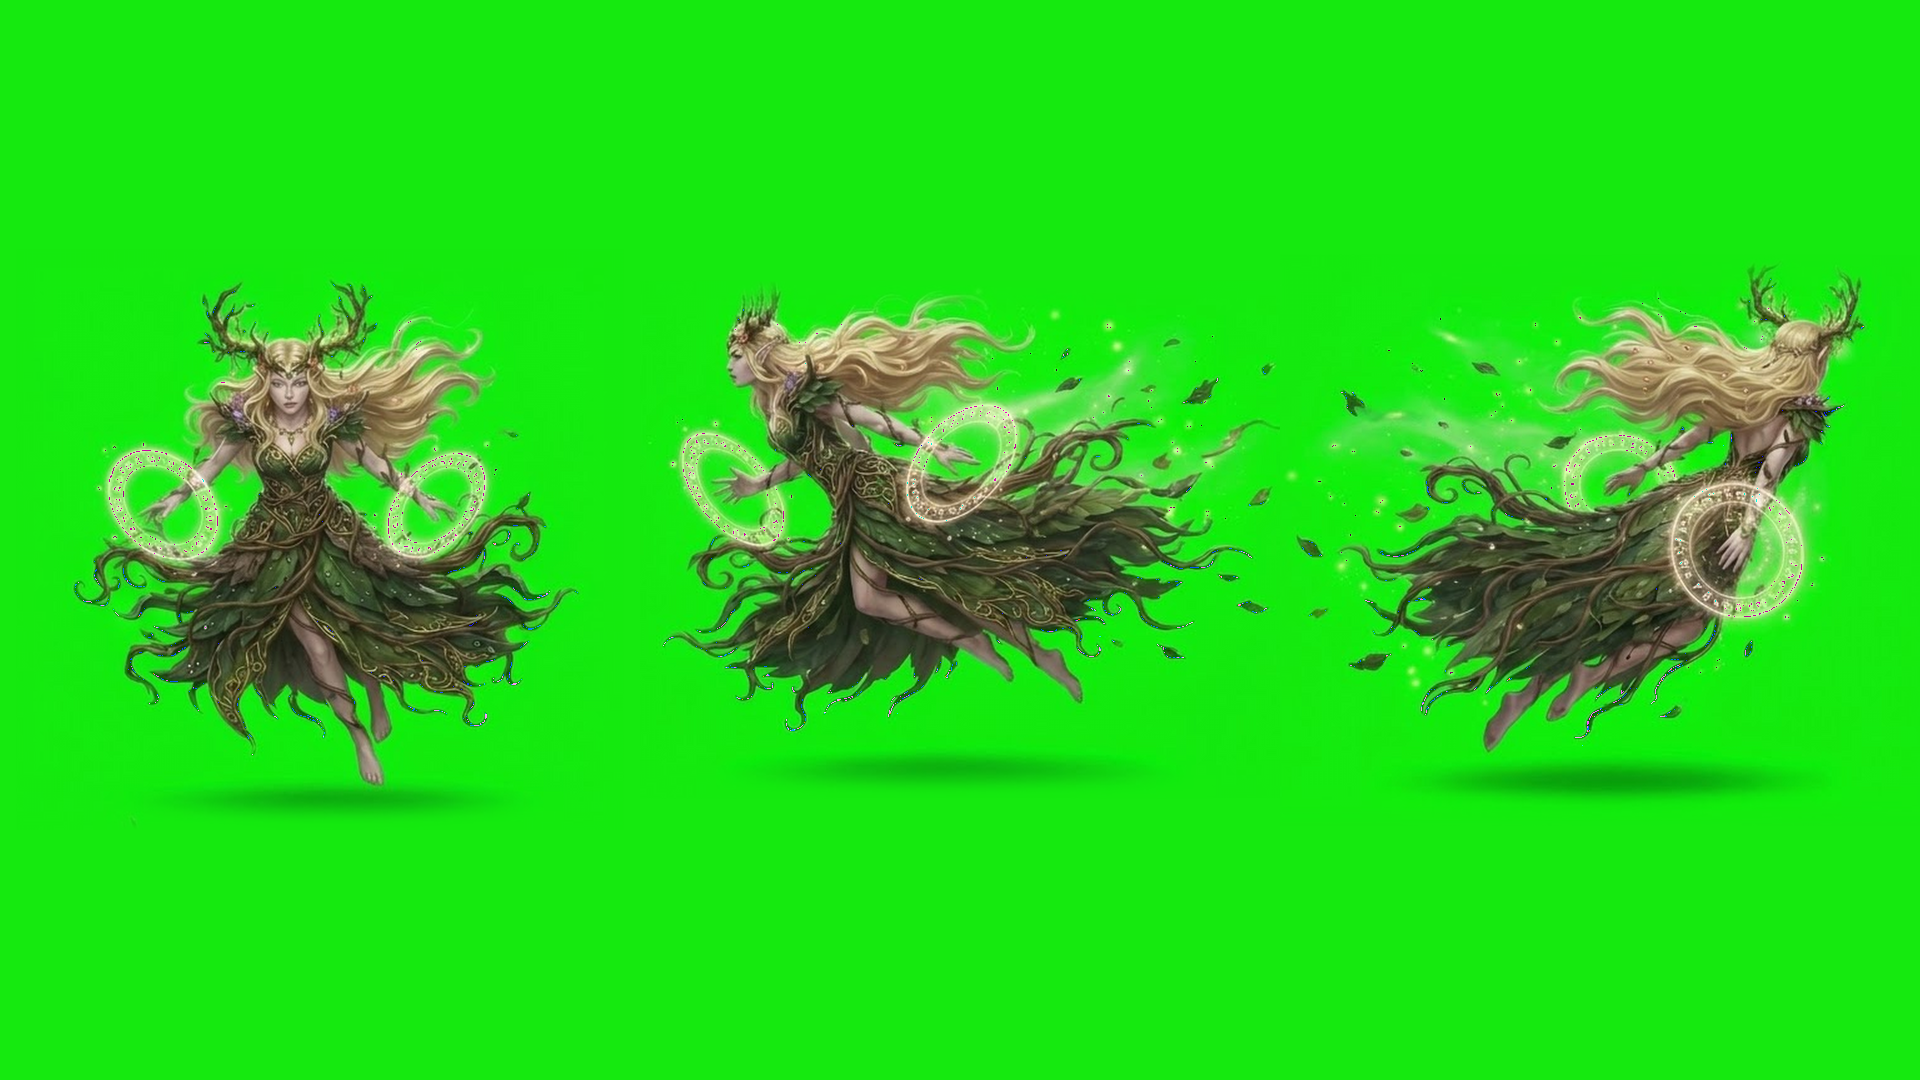
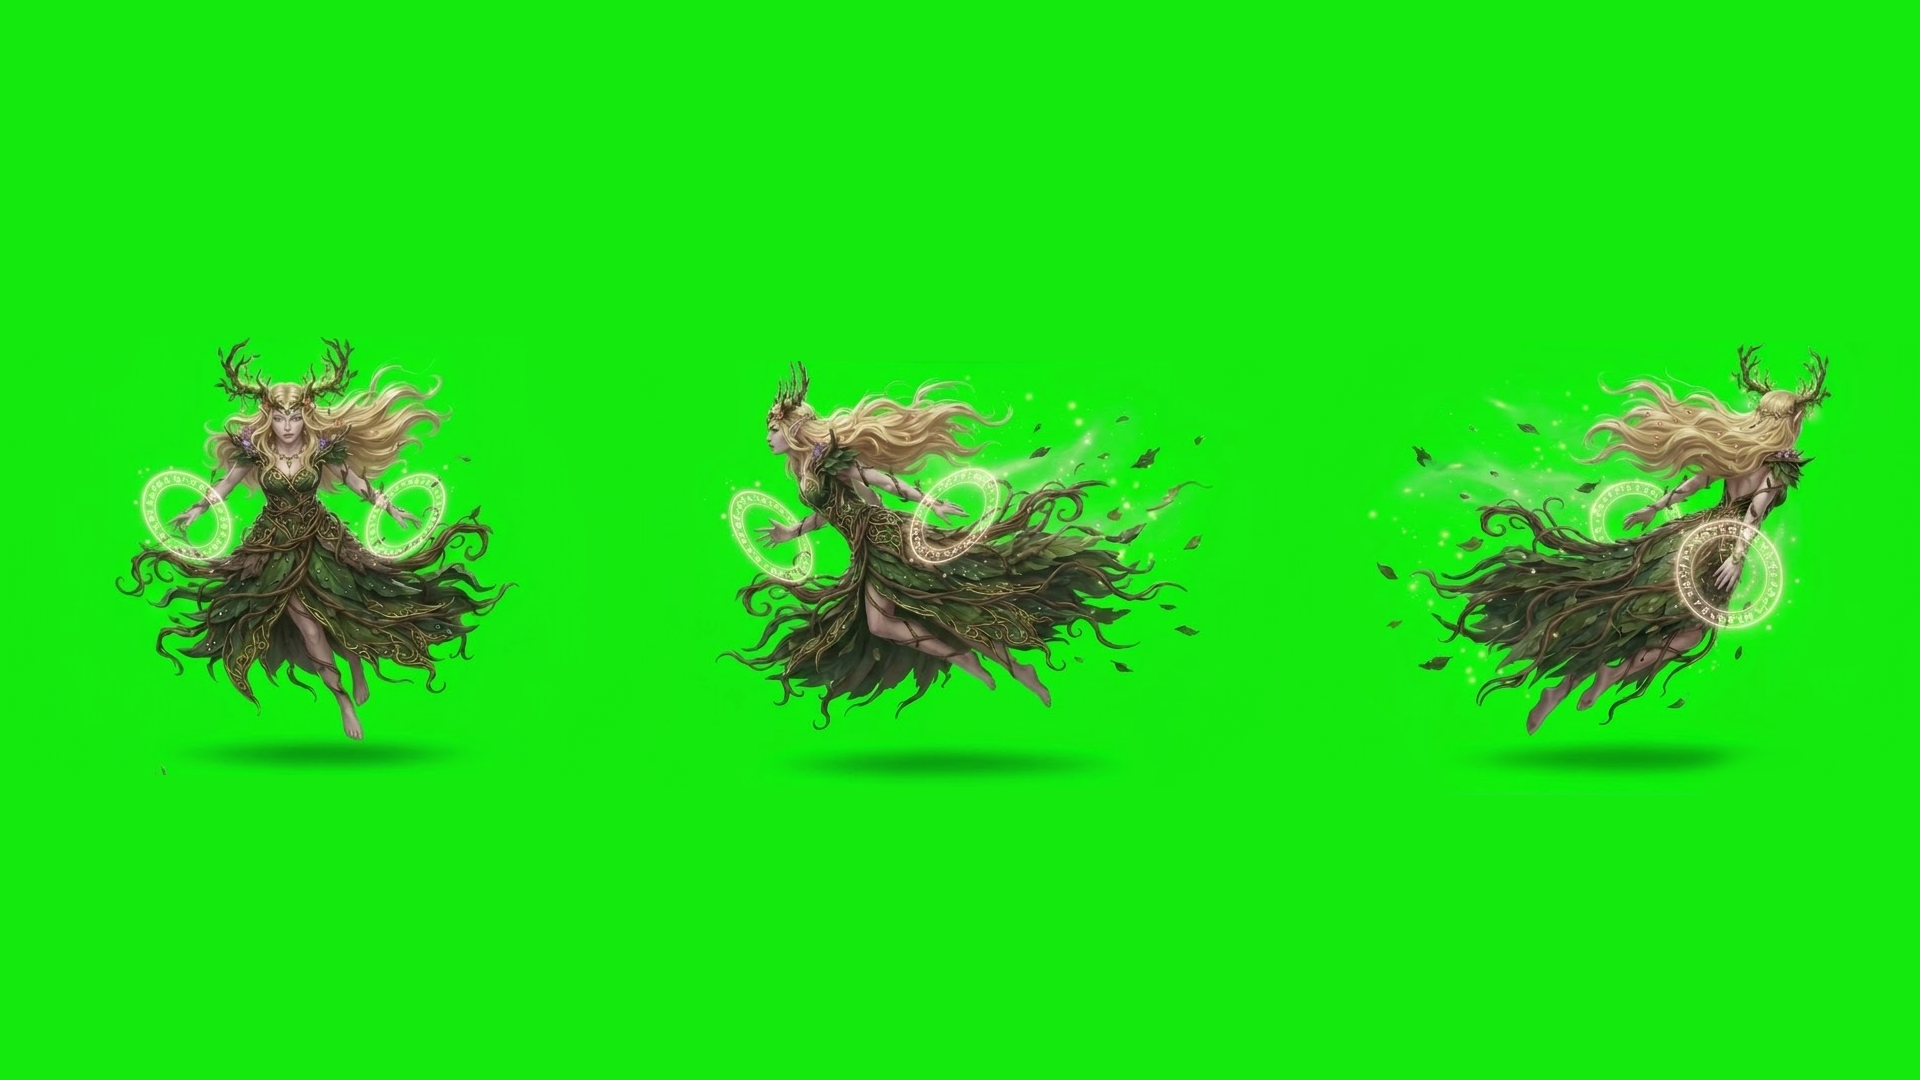
Espírito da Floresta: folha do voo com mais espaço entre colunas e script para refazer
Claude-Session: https://claude.ai/code/session_01CGVLTDGSSxihYWLuUwRgVi

Changed region(s): [[0.3438, 0.2444, 0.9688, 0.7639], [0.0312, 0.2444, 0.3125, 0.7639]]

diff --git a/tools/montar_folha_voo.py b/tools/montar_folha_voo.py
@@ -1,0 +1,71 @@
+#!/usr/bin/env python3
+"""Monta a folha 16:9 (1920x1080) do voo do Espírito da Floresta com 3 colunas: frente, esquerda, costas.
+Uso: montar_folha_voo.py ORIGEM_3_EMPILHADOS.jpg SAIDA.png [escala]
+Recorta cada pose (faixas verticais), tira folhas soltas longe do corpo e centra cada uma na sua coluna de 640 px."""
+import sys
+import cv2
+import numpy as np
+
+src, out = sys.argv[1], sys.argv[2]
+S = float(sys.argv[3]) if len(sys.argv) > 3 else 1.0
+LIMPAR = 70          # folhas soltas a mais de 70 px do corpo somem
+im = cv2.imread(src)
+h, w = im.shape[:2]
+bg = np.median(np.concatenate([im[:15].reshape(-1, 3), im[:, :15].reshape(-1, 3), im[:, -15:].reshape(-1, 3)]), 0)
+a = im.astype(int)
+fg = ((a[:, :, 1] - np.maximum(a[:, :, 0], a[:, :, 2])) < 110).astype(np.uint8)
+
+# faixas verticais = poses
+rows = fg.sum(1) > 2
+bandas, ini = [], None
+for y, v in enumerate(rows):
+    if v and ini is None:
+        ini = y
+    if not v and ini is not None:
+        if bandas and y - bandas[-1][1] < 25 and ini - bandas[-1][1] < 25:
+            bandas[-1] = (bandas[-1][0], y)
+        else:
+            bandas.append((ini, y))
+        ini = None
+if ini is not None:
+    bandas.append((ini, h))
+bandas = [b for b in bandas if b[1] - b[0] > 120]
+assert len(bandas) == 3, bandas
+# cada fatia vai do topo da pose até 70 px abaixo dela (a sombra dela), sem pegar a sombra da vizinha
+fatias = [(max(0, b[0] - 5), min(h, b[1] + 70, (bandas[i + 1][0] - 3) if i < 2 else h)) for i, b in enumerate(bandas)]
+
+cells = []
+for i, (y0, y1) in enumerate(fatias):
+    m = fg[y0:y1].copy()
+    n, lab, st, _ = cv2.connectedComponentsWithStats(cv2.dilate(m, np.ones((15, 15))))
+    maior = 1 + int(np.argmax(st[1:, 4]))
+    perto = cv2.dilate((lab == maior).astype(np.uint8), np.ones((2 * LIMPAR + 1, 2 * LIMPAR + 1)))
+    ys, xs = np.where(m & perto)
+    x0, x1 = int(xs.min()), int(xs.max())
+    c = im[y0:y1].astype(float)
+    # fora da zona do corpo: fundo liso; a zona do corpo tem borda suave
+    zona = cv2.GaussianBlur(perto.astype(np.float32), (0, 0), 12)[..., None]
+    c = c * zona + bg * (1 - zona)
+    cx = (x0 + x1) // 2
+    X0, X1 = max(0, cx - 360), min(w, cx + 360)
+    c = c[:, X0:X1]
+    c = cv2.resize(c, None, fx=S, fy=S, interpolation=cv2.INTER_LANCZOS4)
+    ch, cw = c.shape[:2]
+    cell = np.zeros((1080, 640, 3), float)
+    cell[:] = bg
+    cy = (ys.min() + ys.max()) // 2
+    top = int(540 - cy * S)
+    left = 320 - int((cx - X0) * S)
+    sx0, sy0, x_0, y_0 = max(0, -left), max(0, -top), max(0, left), max(0, top)
+    ww, hh = min(cw - sx0, 640 - x_0), min(ch - sy0, 1080 - y_0)
+    cell[y_0:y_0 + hh, x_0:x_0 + ww] = c[sy0:sy0 + hh, sx0:sx0 + ww]
+    # a coluna nunca passa de 640: a borda funde com o fundo
+    f = np.ones((1080, 640), float)
+    for k in range(40):
+        v = k / 40
+        f[:, k] = np.minimum(f[:, k], v)
+        f[:, 639 - k] = np.minimum(f[:, 639 - k], v)
+    cell = cell * f[..., None] + bg * (1 - f[..., None])
+    cells.append(cell.astype(np.uint8))
+    print(f'coluna {i}: corpo {x1 - x0 + 1}px x {ys.max() - ys.min() + 1}px, folga {int((640 - (x1 - x0 + 1) * S) / 2)}px por lado')
+cv2.imwrite(out, np.hstack(cells))
